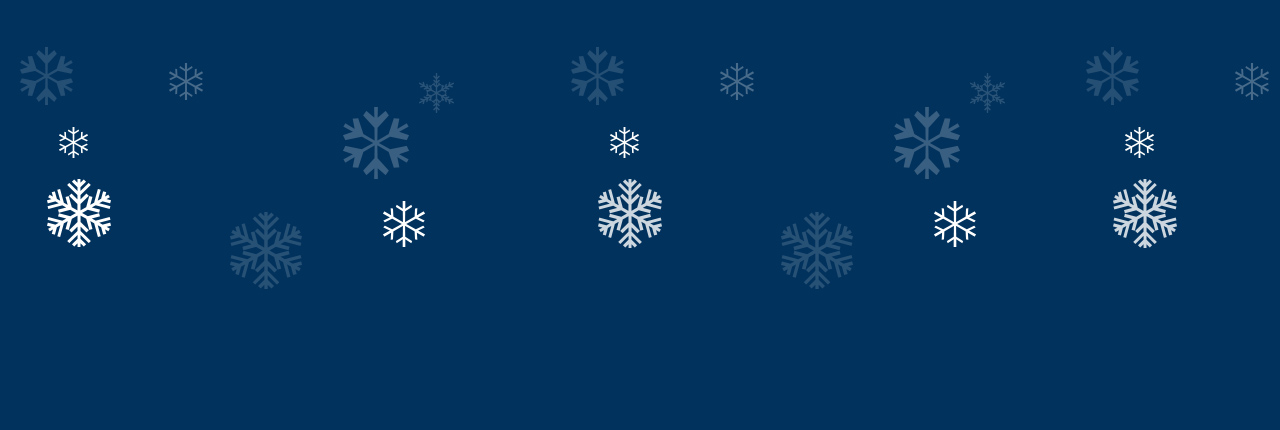
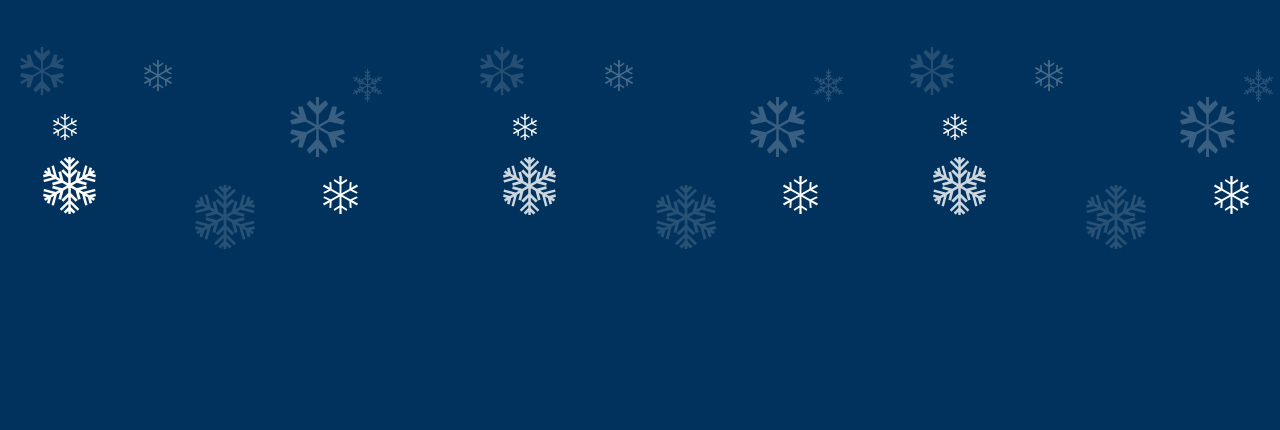
snow

diff --git a/christmas/css/all.css b/christmas/css/all.css
@@ -1681,7 +1681,7 @@ article.intro .container-top {
   
   /*zeev1207*/
   background-image:url(../images/header_bg.jpg);
-  background-repeat:no-repeat;
+  background-repeat:repeat-x;
   background-size:auto 430px;
       
 }
@@ -2230,8 +2230,8 @@ article.intro .container-snow .sprite-snow-cover.bottom, article.terms .containe
     height: 16px;
   }
   article.intro .container-top > .container-text .container-header .sprite-text-orange {
-    width: calc(374px * 0.9);
-    height: calc(138px * 0.9);
+    width: calc(374px * 0.8);
+    height: calc(138px * 0.8);
   }
   article.intro .container-top .container-background .city {
     top: 142px;
@@ -2485,8 +2485,8 @@ article.intro .container-bottom > .container-text figure.tea-and-cake {
 
   article.intro .container-top > .container-text .container-header .sprite-text-orange {
     margin: -10px auto 10px auto;
-    width: calc(374px * 0.8);
-    height: calc(138px * 0.8);
+    width: calc(374px * 0.85);
+    height: calc(138px * 0.85);
   }
 
    article.intro .container-top > .container-text .skater-girl.active {
@@ -2558,8 +2558,8 @@ margin: 0px auto ;
 
   article.intro .container-top > .container-text .container-header .sprite-text-orange {
     margin: -10px auto 10px auto;
-    width: calc(374px * 0.7);
-    height: calc(138px * 0.7);
+    width: calc(374px * 0.75);
+    height: calc(138px * 0.75);
   }
 
    article.intro .container-top > .container-text .skater-girl.active {

diff --git a/christmas/index.html b/christmas/index.html
@@ -62,8 +62,8 @@
 			
 			<div class="container-buttons-mobile">
 				<div class="container-buttons btns-group clearfix">
-					<a class="btn btn-large " id="" href="#.">
-						<div class="sprite circle sprite-circle1 ">1</div>
+					<a class="btn btn-large btn-large-ok" id="" href="#.">
+						<div class="sprite circle sprite-circle1 sprite-circle-ok ">1</div>
 						
 						<div class="text">使用紅利兌換專區，將任一商品
 加入”我的最愛”</div>
